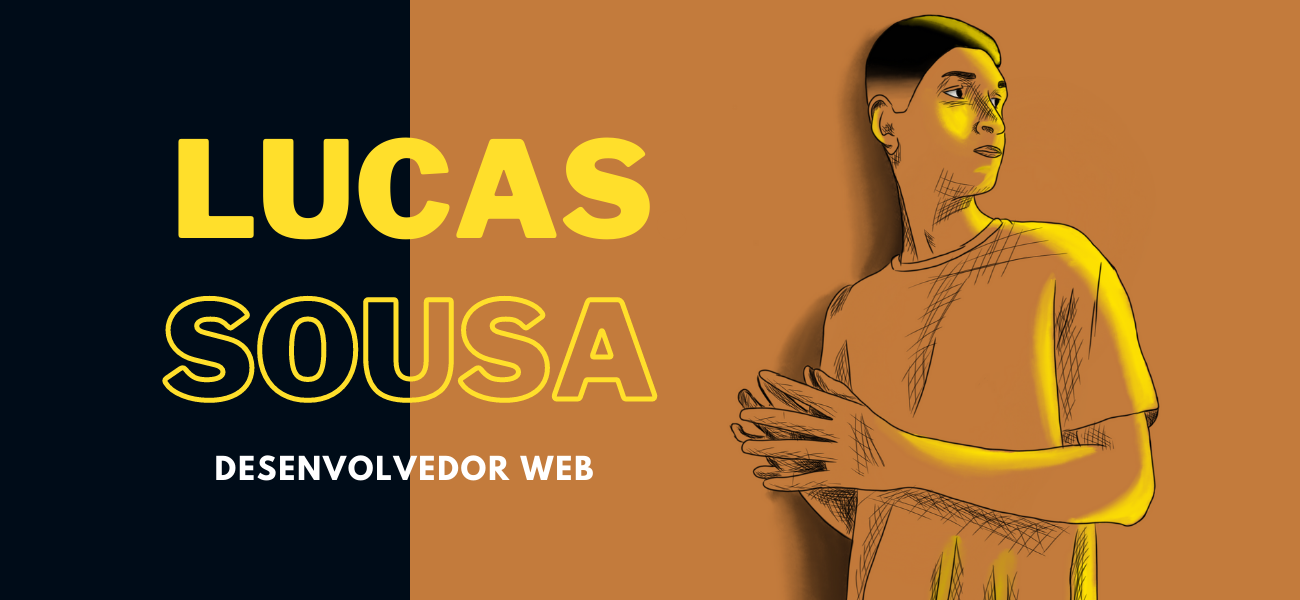
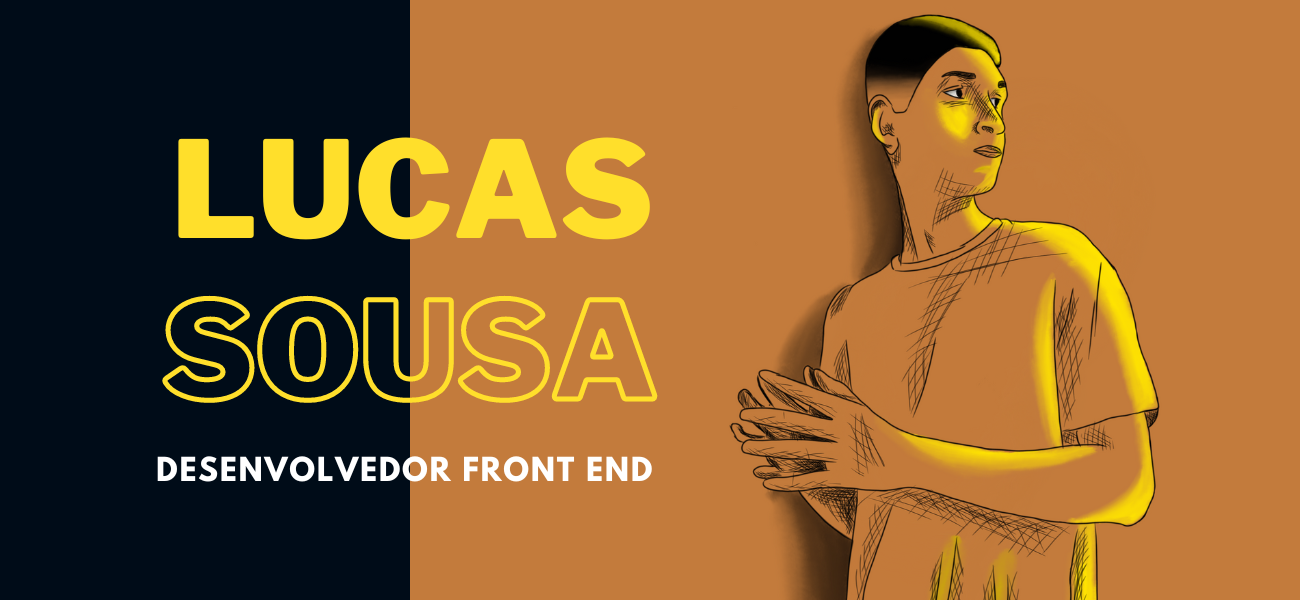
new features

Changed region(s): [[0.1231, 0.75, 0.5231, 0.81]]

diff --git a/index.html b/index.html
@@ -6,6 +6,7 @@
     <meta name="viewport" content="width=device-width, initial-scale=1.0" />
     <link rel="icon" type="image/png" sizes="32x32" href="./icons/favicon.png" />
     <link rel="stylesheet" type="text/css" href="style.css" />
+    <link rel="stylesheet" href="https://unpkg.com/aos@next/dist/aos.css" />
     <title>Portfólio Lucas Sousa</title>
   </head>
   <body>
@@ -13,6 +14,7 @@
       <ul id="menu">
         <li><a href="#declaration">Sobre Mim</a></li>
         <li><a href="#projects">Projetos</a></li>
+        <li><a href="#skills">Habilidades</a></li>
         <li><a href="#networks">Sociais</a></li>
       </ul>
     </nav>
@@ -24,17 +26,17 @@
     <main class="">
       <section id="declaration">
         <div class="container-center">
-          <div class="declaration-components">
+          <div class="declaration-components" data-aos="fade-up">
             <div class="img-declaration">
               <img src="./interrogacao.png" />
             </div>
             <div class="text-declaration">
               <span>Sobre Mim</span>
               <p class="text">
-                Sou desenvolvedor Web, técnico em informática e atualmente estou cursando Ciências da Computação na
-                instituição Unifametro. Possuo conhecimentos básicos em tecnologias de frontend e backend como Vue js e
-                Boot Strap. Sou uma pessoa muito focada em objetivos, sempre busco melhorias tanto para somar e ajudar a
-                quem está ao meu redor como para benefícios profissionais.
+                Sou desenvolvedor front end, técnico em informática e faço o curso de Ciências da Computação na
+                instituição Unifametro. Possuo conhecimentos básicos em tecnologias de frontend e backend como Vue js,
+                React js, Boot Strap, etc. Sou uma pessoa muito focada em objetivos, sempre busco melhorias tanto para
+                somar e ajudar a quem está ao meu redor como para benefícios profissionais.
               </p>
             </div>
           </div>
@@ -44,7 +46,7 @@
       <section id="projects">
         <div class="container-center">
           <span>Projetos</span>
-          <div class="project-card">
+          <div class="project-card" data-aos="fade-right">
             <div class="img-card">
               <img src="./book.svg" />
             </div>
@@ -59,7 +61,7 @@
               </p>
             </div>
           </div>
-          <div class="project-card">
+          <div class="project-card" data-aos="fade-right">
             <div class="img-card">
               <img src="./computer.svg" />
             </div>
@@ -69,11 +71,13 @@
                 Sistema de locação de livros onde o principal intuito é o controle e gerenciamento de alugueis, nesse
                 sistema existem alguns cruds, como de clientes, livros, editoras e alugueis, também existe uma dashboard
                 na tela principal para ter uma visão geral do sistema. O sistema foi desenvolvido com os frameworks
-                SpringBoot e Vue JS e também foi utilizado o framework CSS Vuetify para estilização das telas.
+                SpringBoot e Vue JS e também foi utilizado o framework CSS Vuetify para estilização das telas. Obs: Este
+                projeto também foi feito com o React como treinamento para um projeto que fui alocado na empresa em que
+                trabalho.
               </p>
             </div>
           </div>
-          <div class="project-card">
+          <div class="project-card" data-aos="fade-right">
             <div class="img-card">
               <img src="./phone.svg" />
             </div>
@@ -85,6 +89,47 @@
                 utilizado para desenvolvimentos de aplicações mobile. O sistema ainda esta em desenvolvimento!
               </p>
             </div>
+          </div>
+        </div>
+      </section>
+      <section id="skills" class="container-center">
+        <span>Habilidades</span>
+        <div class="skills-container" data-aos="fade-up">
+          <div class="skill">
+            <img src="https://cdn.jsdelivr.net/gh/devicons/devicon/icons/html5/html5-plain-wordmark.svg" />
+            <p>
+              HTML é uma abreviação de Hypertext Markup Language, ou seja, Linguagem de Marcação de Hipertexto.
+              Resumindo, o HTML é uma linguagem usada para a publicação de conteúdo (texto, imagens, vídeos, áudio etc.)
+              na web.
+            </p>
+          </div>
+          <div class="skill">
+            <img src="https://cdn.jsdelivr.net/gh/devicons/devicon/icons/css3/css3-plain-wordmark.svg" />
+            <p>
+              CSS é uma linguagem de estilo, também conhecida como folhas de estilo em cascata. É usada para
+              personalização visual de um site.
+            </p>
+          </div>
+          <div class="skill">
+            <img src="https://cdn.jsdelivr.net/gh/devicons/devicon/icons/javascript/javascript-plain.svg" />
+            <p>
+              JavaScript é uma linguagem leve, interpretada e baseada em objetos com funções de primeira classe, mais
+              conhecida como a linguagem de script para páginas Web.
+            </p>
+          </div>
+          <div class="skill">
+            <img src="https://cdn.jsdelivr.net/gh/devicons/devicon/icons/react/react-original-wordmark.svg" />
+            <p>
+              Em poucas palavras, é uma biblioteca JavaScript para criação de interfaces para o usuário, desenvolvida e
+              mantida pelo Facebook.
+            </p>
+          </div>
+          <div class="skill">
+            <img src="https://cdn.jsdelivr.net/gh/devicons/devicon/icons/vuejs/vuejs-original-wordmark.svg" />
+            <p>
+              O Vue.js (comumente conhecido como Vue, pronunciado "view") é um framework progressivo do JavaScript de
+              código aberto (open source) para a construção de interfaces de usuário.
+            </p>
           </div>
         </div>
       </section>
@@ -120,5 +165,9 @@
       </section>
     </main>
     <script src="app.js"></script>
+    <script src="https://unpkg.com/aos@next/dist/aos.js"></script>
+    <script>
+      AOS.init();
+    </script>
   </body>
 </html>

diff --git a/style.css b/style.css
@@ -75,6 +75,8 @@ nav a {
   padding: 200px 100px;
   display: flex;
   align-items: center;
+  transform: translateY(0px);
+  animation: float 5s ease-in-out infinite;
 }
 
 .img-declaration img {
@@ -97,7 +99,8 @@ nav a {
 .project-card {
   display: flex;
   align-items: center;
-  background-image: linear-gradient(to right, #ffffff15, #fffefe00);
+  background-color: #10121b;
+  box-shadow: 5px 5px 10px rgba(0, 0, 0, 0.3);
   padding: 15px;
   border-radius: 12px;
   margin: 10px 0;
@@ -134,22 +137,8 @@ nav a {
   margin-top: 15px;
 }
 
-#historic {
-  padding: 60px;
-}
-
-#historic span {
-  color: #ffdf2b;
-  font-size: 3rem;
-}
-
-#historic .subtitle {
-  color: #fff;
-  font-size: 2rem;
-}
-
 .text {
-  color: #fff;
+  color: rgb(200, 200, 200);
   font-size: 1.1rem;
 }
 
@@ -164,6 +153,62 @@ nav a {
     rgba(255, 187, 0, 0.397),
     rgba(51, 49, 44, 0)
   );
+}
+
+#skills {
+  padding: 40px;
+}
+
+#skills span {
+  color: #ffdf2b;
+  font-size: 3rem;
+  margin-bottom: 20px;
+}
+
+#skills .skills-container {
+  display: flex;
+  flex-direction: row;
+  flex-wrap: wrap;
+  justify-content: center;
+}
+
+#skills .skill {
+  background-color: #10121b;
+  display: flex;
+  align-items: center;
+  max-width: 500px;
+  color: rgb(200, 200, 200);
+  padding: 20px;
+  margin: 10px;
+  border-radius: 6px;
+  transform: translateY(0px);
+  animation: float 5s ease-in-out infinite;
+  box-shadow: 5px 5px 10px rgba(0, 0, 0, 0.3);
+}
+
+@keyframes float {
+  0% {
+    transform: translateY(0px);
+  }
+  50% {
+    transform: translateY(-30px);
+  }
+  100% {
+    transform: translateY(0px);
+  }
+}
+
+#skills img {
+  width: 100px;
+  height: 100px;
+  margin-right: 10px;
+  -webkit-transition: -webkit-transform 0.5s ease;
+  transition: transform 0.5s ease;
+}
+
+#skills img:hover {
+  -webkit-transform: scale(1.1);
+  transform: scale(1.3);
 }
 
 .goTop {
@@ -213,6 +258,13 @@ nav a {
 .cards div a img {
   width: 50px;
   height: 50px;
+  -webkit-transition: -webkit-transform 0.5s ease;
+  transition: transform 0.5s ease;
+}
+
+.cards div a img:hover {
+  -webkit-transform: scale(1.1);
+  transform: scale(1.1);
 }
 
 ::-webkit-scrollbar {
